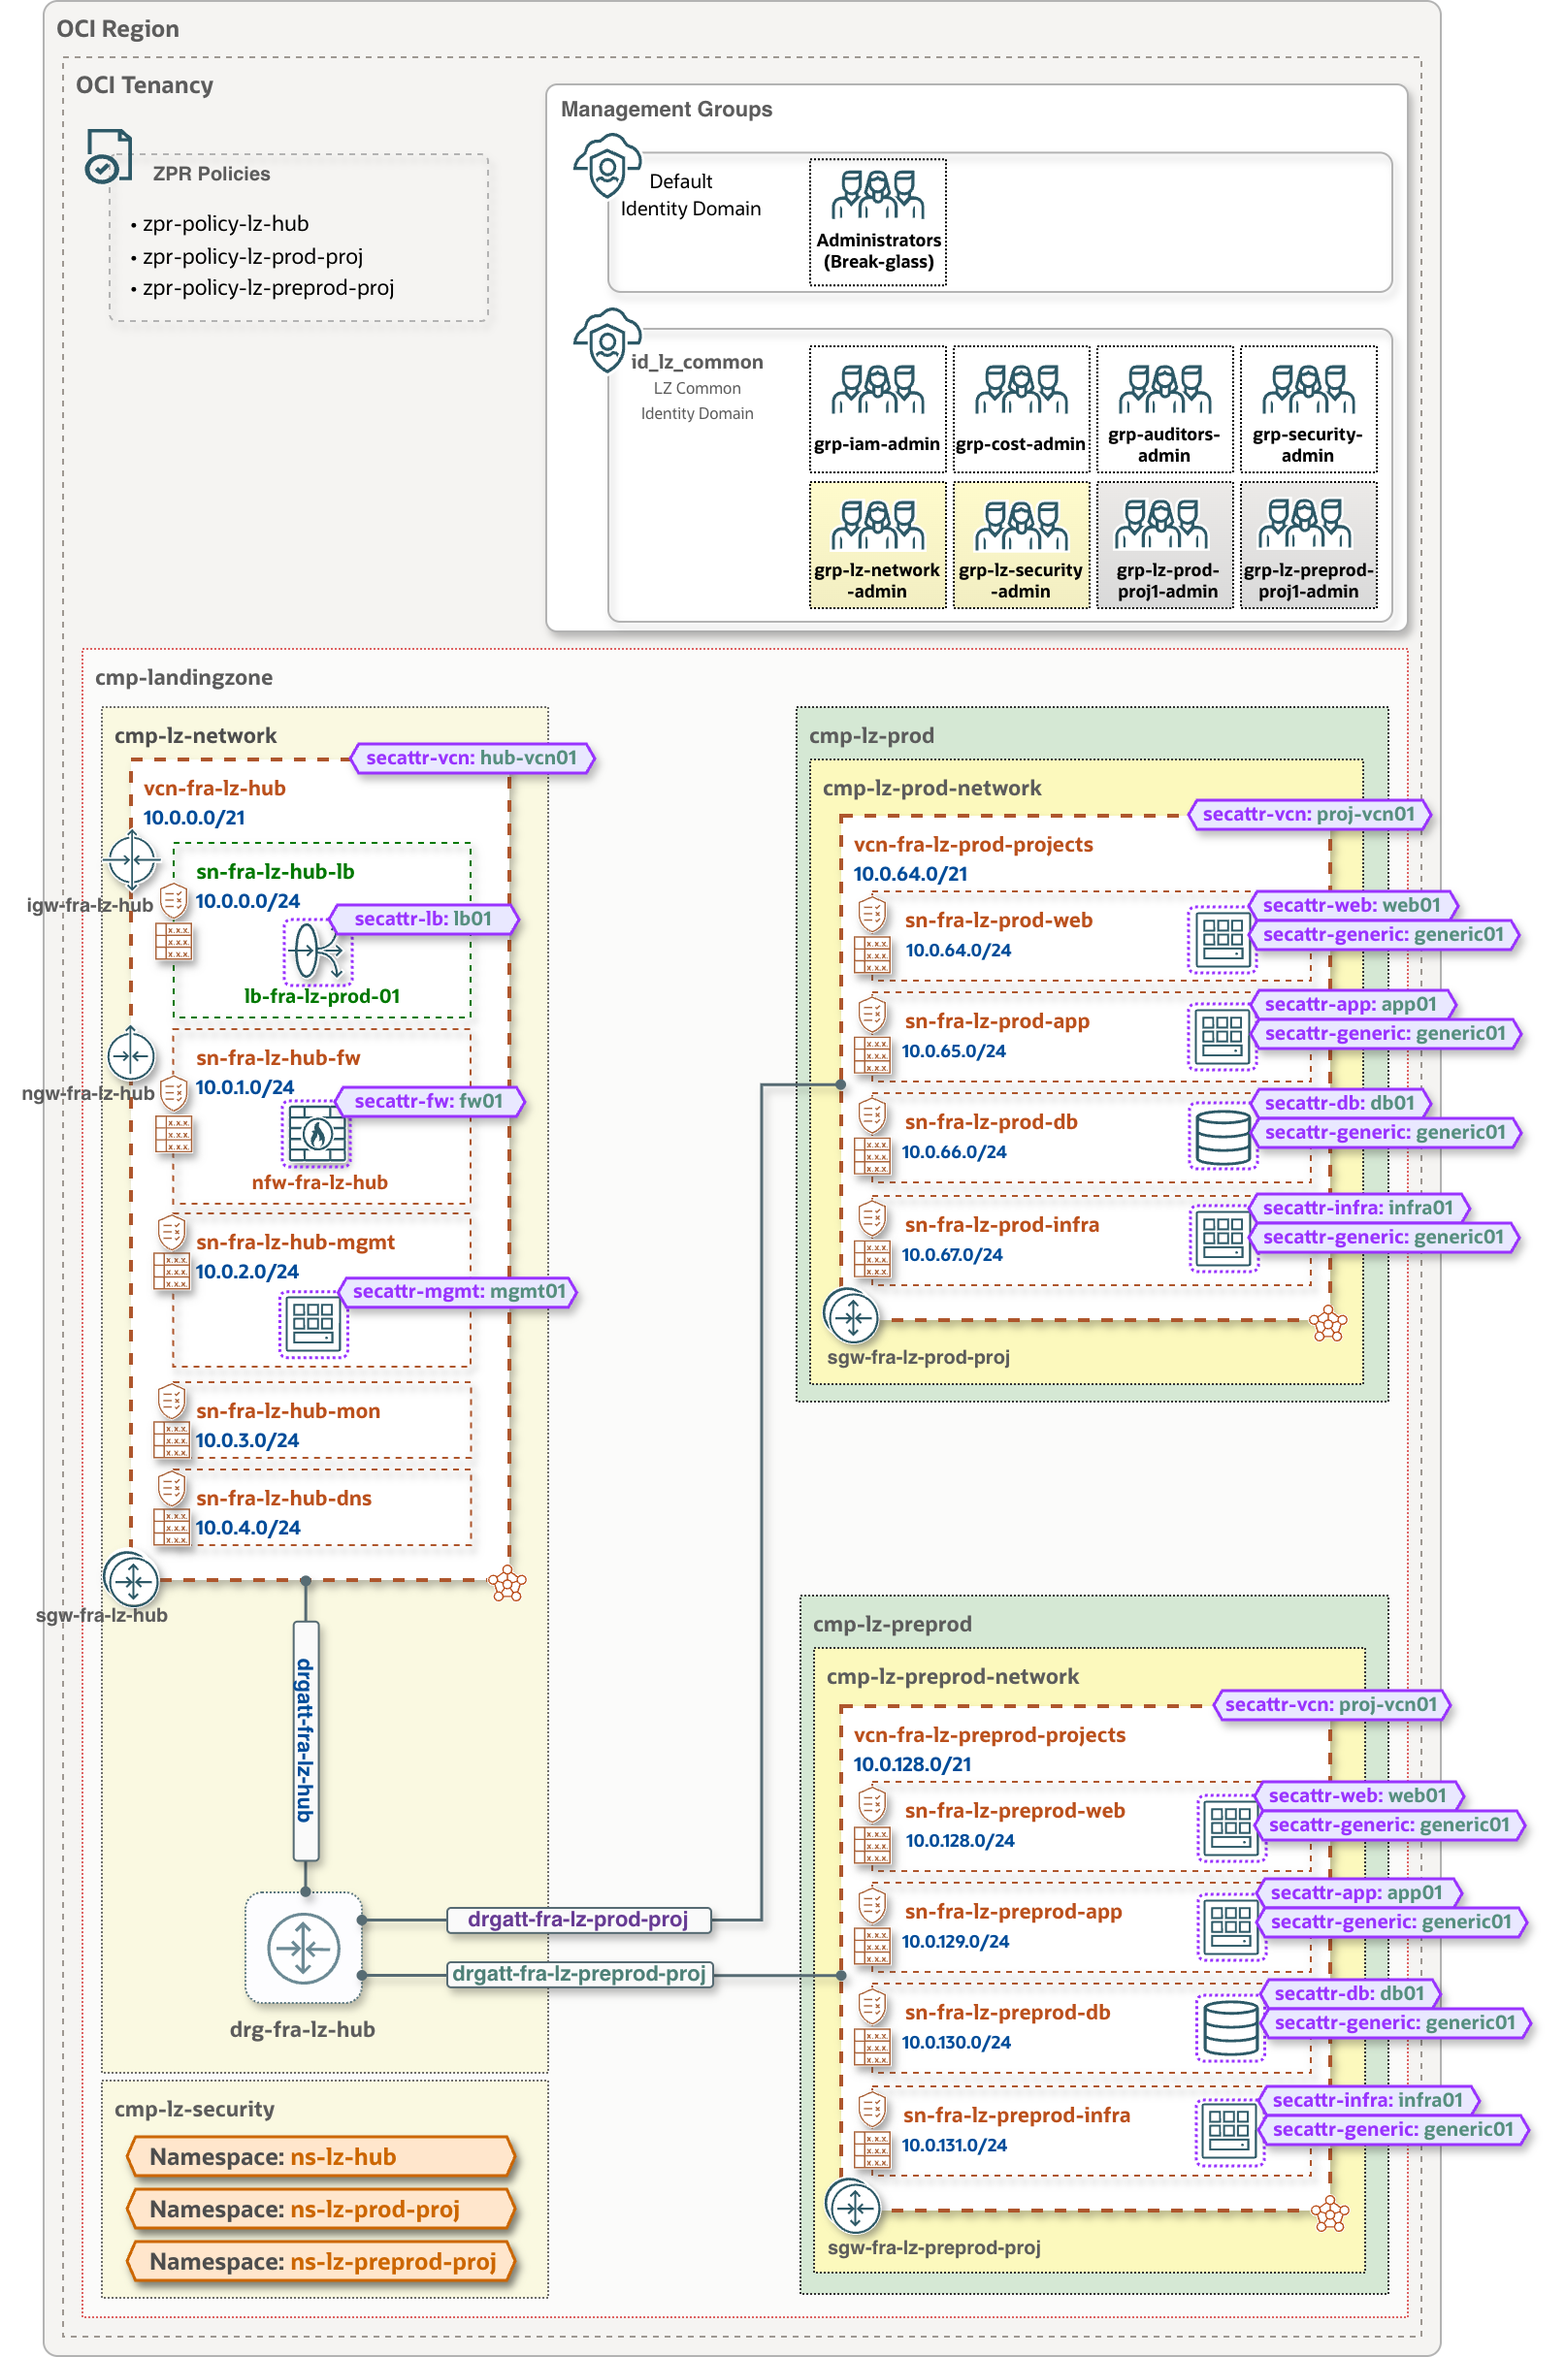
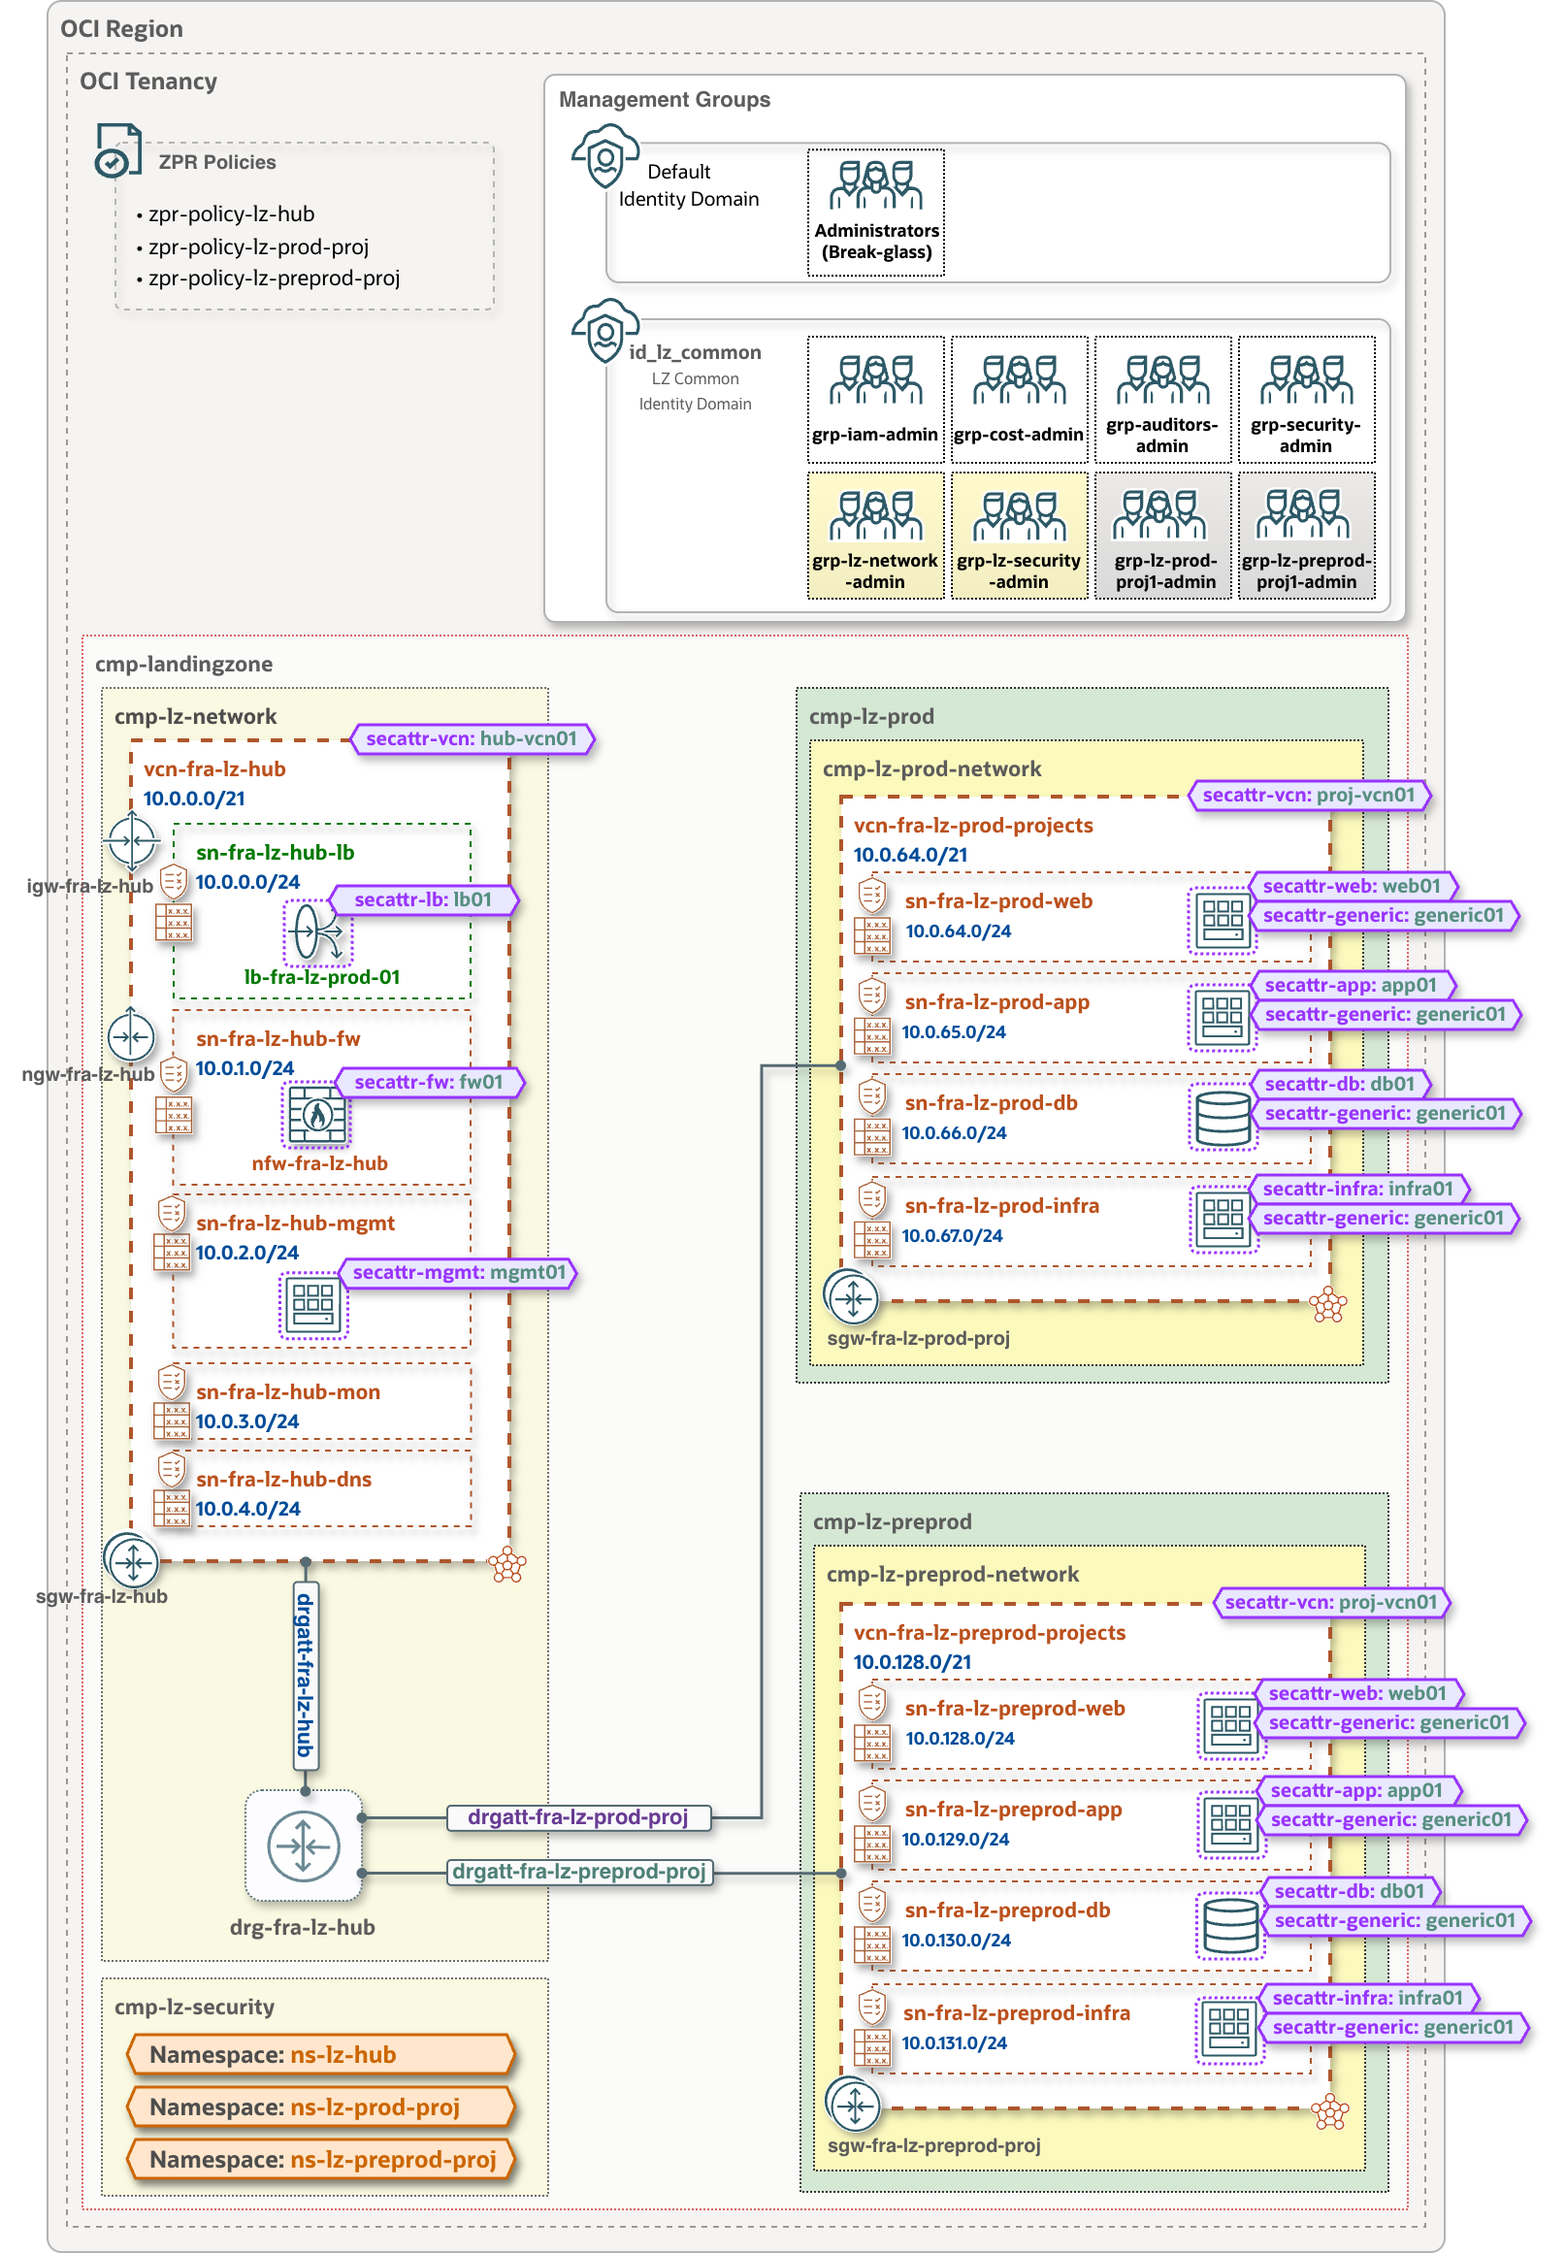
update

Changed region(s): [[0.0, 0.0, 0.9913, 1.0], [0.031, 0.0, 0.2478, 0.124]]

diff --git a/readme.md b/readme.md
@@ -71,7 +71,8 @@ The architecture diagram below illustrates the ZPR resources deployed by the ZPR
 &nbsp;
 
 > [!NOTE]
-Although the architecture diagram depicts Security Attributes alongside the workloads to illustrate their association with each resource, the Security Attributes themselves are defined within their respective ZPR Namespaces (see diagram 2) and all reside in the `cmp-lz-security` compartment.
+> - Although the architecture diagram depicts Security Attributes alongside the workloads to illustrate their association with each resource, the Security Attributes themselves are defined within their respective ZPR Namespaces (see diagram 2) and all reside in the `cmp-lz-security` compartment.
+>  - The VM in the management subnet and the workloads shown in the architecture diagram are included for illustration purposes only and are not part of the standard One-OE deployment.
 
 &nbsp;
 
